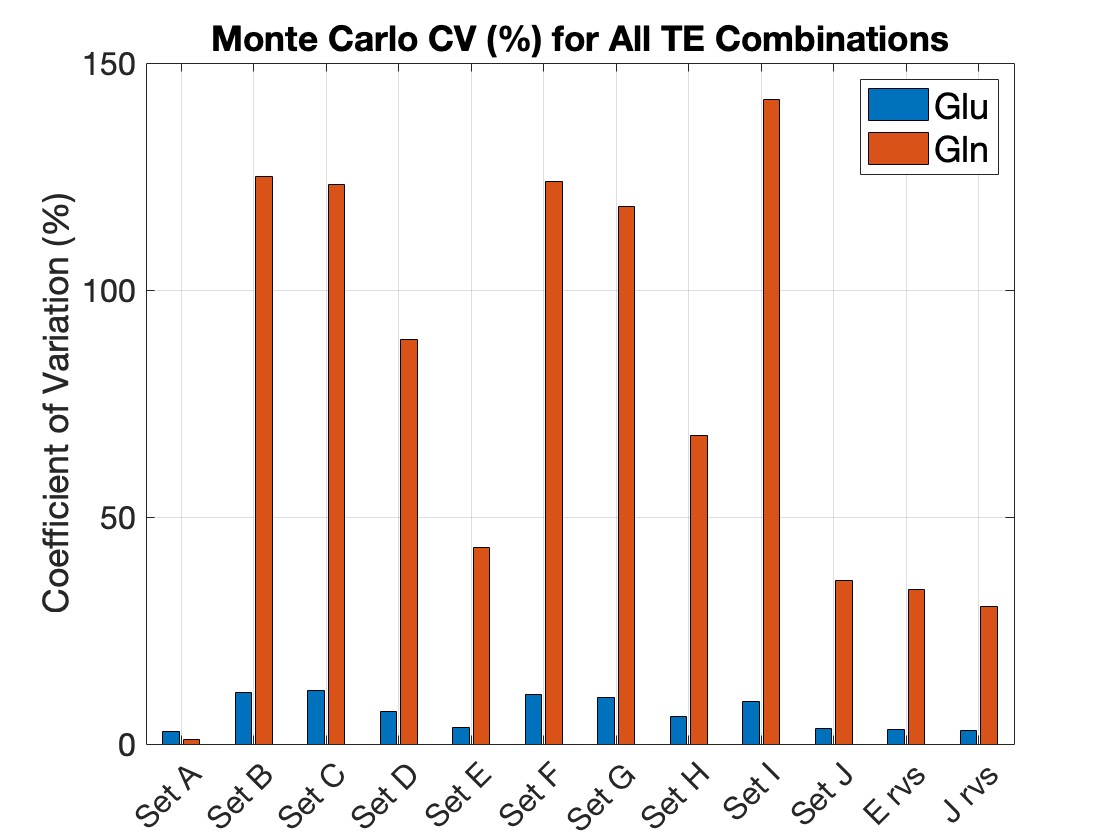
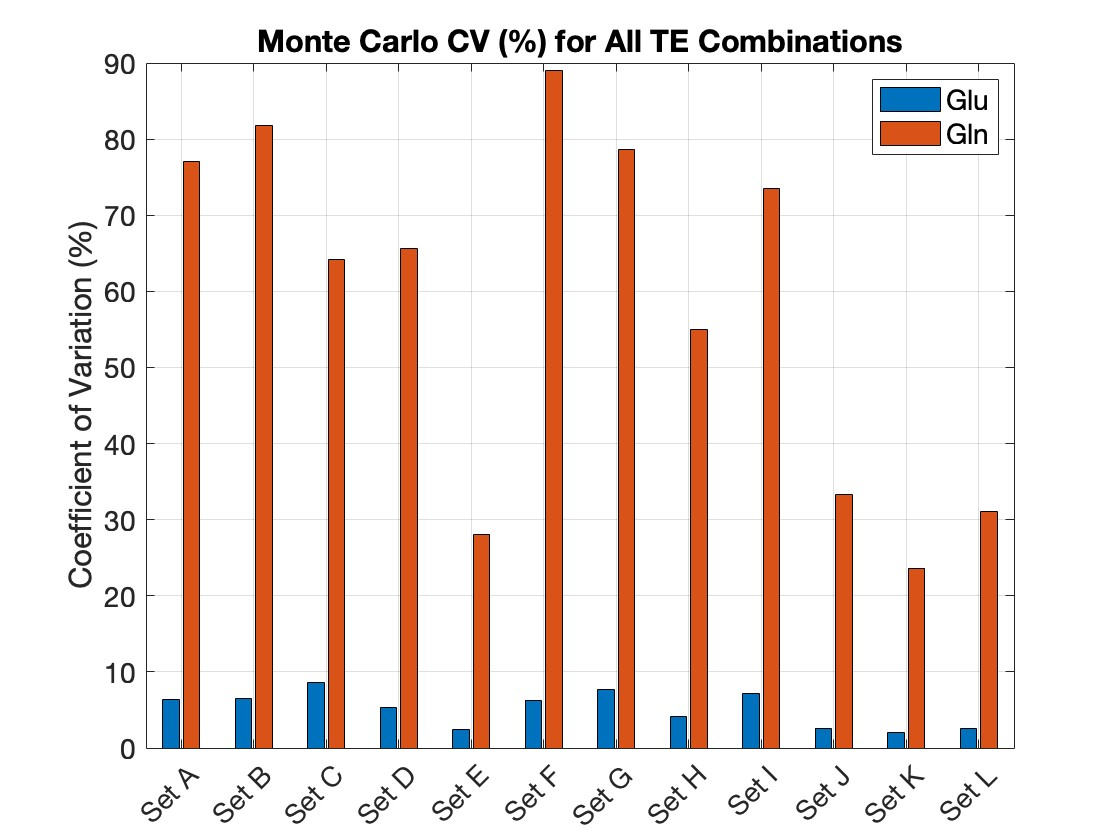
Updated Document

diff --git a/Aim 2 /Hybrid-TE/CRLB_estimation_05_Glu_Gln_KC.m b/Aim 2 /Hybrid-TE/CRLB_estimation_05_Glu_Gln_KC.m
@@ -1,6 +1,5 @@
 % CRLB_estimation_05_Glu_Gln.m setup code for concatenated spectral fit, in
 % 04, add monte carlo simulations
-
 % Chathu 2025 March 10th University of Calgary
 % Version 1
 %%%%%%%%%%%%%%%%%%%%%%%%%%%%%%%%%%%%%%%%%%%%%%%%%%%%%%%%%%%%%%%%%%%%%%%
@@ -56,11 +55,11 @@ SimPars.ncompounds = 2;
 
 
 numspec = 4;        % number of spectra to concatenate
- TE1_indx = [5,5,5,5];     % make sure number of indices in here match numspec
- TE2_indx = [1,1,1,1];     % make sure number of indices in here match numspec
+% TE1_indx = [5 7 9 11];     % make sure number of indices in here match numspec
+% TE2_indx = [17 19 13 15];     % make sure number of indices in here match numspec
 
-%TE1_indx = [20 20 20 20];     % make sure number of indices in here match numspec
-%TE2_indx = [20 20 20 20];
+TE1_indx = [5,5,5,5];     % make sure number of indices in here match numspec
+TE2_indx = [1,1,1,1];
 
 %SimPars.noise = SimPars.noise/sqrt(numspec);
 noise_sw = 0.0045;
@@ -228,38 +227,69 @@ disp(['Gln CRLB =' num2str(CRLBamp1D(2,1,1)) '%']);
 
 %% do lsqcurve fit based monte-carlo simulation to estimate coefficient of variance
 
+%% Monte Carlo simulation to estimate coefficient of variation (CV) using complex fit
+%% Monte Carlo simulation using real-valued residuals from complex FID
+
 num_reps = 100;
-x0 = [0.9, 0.9];     % Initial guess for parameters [amplitude1, amplitude2, offset]
+x0 = [0, 0.0];           % Initial guess: [Glu_amp, Gln_amp]
+lb = [0, 0];
+ub = [10, 10];
 
-MCarlo_results = zeros(num_reps, size(x0,2));
+MCarlo_results = zeros(num_reps, length(x0));
 
+% Noiseless FIDs
 Glu_FID_no_noise_conc = ifft(ifftshift(Glu_Specs_no_noise_concat));
 Gln_FID_no_noise_conc = ifft(ifftshift(Gln_Specs_no_noise_concat));
+
+% Stack real and imaginary parts into a real-valued residual vector
+stacked_model_func = @(x) [ ...
+    real(x(1)*Glu_FID_no_noise_conc + x(2)*Gln_FID_no_noise_conc), ...
+    imag(x(1)*Glu_FID_no_noise_conc + x(2)*Gln_FID_no_noise_conc) ...
+];
+
 for rep_indx = 1:num_reps
-    
-%    noisy_spec =  fftshift(fft(SimPars.Conc(1,1).*Glu_FID_no_noise_conc + SimPars.Conc(1,2).*Gln_FID_no_noise_conc + (SimPars.noise*randn(1, new_points) + 1i*SimPars.noise*randn(1, new_points))));
-   noisy_fid =  SimPars.Conc(1,1).*Glu_FID_no_noise_conc + SimPars.Conc(1,2).*Gln_FID_no_noise_conc + (SimPars.noise*randn(1, new_points) + 1i*SimPars.noise*randn(1, new_points));
-   
-   model_func = @(x, xdata) x(1) * real(Glu_FID_no_noise_conc) + x(2) * real(Gln_FID_no_noise_conc); % Amplitudes1*signal1 + Amplitude2*signal2
-   options = optimoptions('lsqcurvefit', 'Display', 'off');
-   x_opt = lsqcurvefit(model_func, x0, [], real(noisy_fid), [], [], options);
-   MCarlo_results(rep_indx,:) = x_opt; 
+    % Generate complex noisy signal
+    noisy_fid = SimPars.Conc(1,1)*Glu_FID_no_noise_conc + ...
+                SimPars.Conc(1,2)*Gln_FID_no_noise_conc + ...
+                SimPars.noise*(randn(1, new_points) + 1i*randn(1, new_points));
+
+    % Stack real and imaginary parts of the noisy FID
+    ydata = [real(noisy_fid), imag(noisy_fid)];
+
+    % Objective function returning residuals
+    obj_fun = @(x, xdata) stacked_model_func(x);
+
+    % Fit using lsqcurvefit
+    try
+        x_opt = lsqcurvefit(@(x, ~) obj_fun(x, []), x0, [], ydata, lb, ub, ...
+                            optimoptions('lsqcurvefit','Display','off'));
+    catch
+        warning(['Fit failed at iteration ' num2str(rep_indx)]);
+        x_opt = [NaN, NaN];
+    end
+
+    MCarlo_results(rep_indx,:) = x_opt;
+
+    % Optional: Track if unstable
+    if any(isnan(x_opt)) || any(x_opt < 0)
+        disp(['Unstable fit at rep ' num2str(rep_indx) ': ' num2str(x_opt)]);
+    end
 end
 
-Glu_mean = mean(MCarlo_results(:,1));
-Gln_mean = mean(MCarlo_results(:,2));
+% Clean results
+valid_idx = all(~isnan(MCarlo_results), 2);
+valid_results = MCarlo_results(valid_idx, :);
 
+Glu_mean = mean(valid_results(:,1));
+Gln_mean = mean(valid_results(:,2));
 
-Glu_CV = std(MCarlo_results(:,1))./Glu_mean*100;
+Glu_CV = std(valid_results(:,1))  * 100;
+Gln_CV = std(valid_results(:,2)) * 100;
 
-Gln_CV = std(MCarlo_results(:,2))./Gln_mean*100;
-
-
-disp('Monte Carlo simulation results:');
+disp('Monte Carlo simulation results (real-valued residuals from complex FID):');
 disp(['Glutamate concentrations = ' num2str(Glu_mean) ' +/- ' num2str(Glu_CV) '%']);
 disp(['Glutamine concentrations = ' num2str(Gln_mean) ' +/- ' num2str(Gln_CV) '%']);
 disp('-------------------------------------------');
-
 % ----- SNR CALCULATION -----
 % Define ppm axis for full concatenated spectrum
 ppm_axis = new_freq;
@@ -293,27 +323,28 @@ disp(['SNR (Glutamine) = ' num2str(SNR_Gln)]);
 disp('-------------------------------------------');
 
 % Labels for all evaluated TE sets
-sets = {'Set A', 'Set B', 'Set C', 'Set D', 'Set E', 'Set F', 'Set G', 'Set H', 'Set I', 'Set J', 'E rvs', 'J rvs'};
+sets = {'Set A', 'Set B', 'Set C', 'Set D', 'Set E', 'Set F', 'Set G', ...
+         'Set H', 'Set I', 'Set J', 'Set K', 'Set L'};
 
-% ----- CRLB Data -----
-crlb_glu  = [7.24, 7.46, 8.23, 5.06, 2.29, 6.98, 7.41, 4.3, 6.57, 2.24, 2.08, 2.03];  % Glu CRLB
-crlb_gln  = [28.23, 25.93, 26.76, 22.67, 8.18, 28.31, 27.86, 17.78, 25.51, 7.97, 7.32, 7.06];  % Gln CRLB
+% ----- Updated CRLB Data -----
+crlb_glu  = [7.24, 7.46, 8.23, 5.06, 2.29, 6.98, 7.41, 4.3, 6.57, 2.24, 2.08, 2.03];  % Glu CRLB (%)
+crlb_gln  = [28.23, 25.93, 26.76, 22.67, 8.18, 28.31, 27.86, 17.78, 25.51, 7.97, 7.32, 7.06];  % Gln CRLB (%)
 
-% ----- Monte Carlo CV Data -----
-cv_glu    = [2.83, 11.4, 11.75, 7.1, 3.68, 11, 10.35, 6.04, 9.29, 3.35, 3.23, 2.89];  % Glu CV%
-cv_gln    = [0.99, 124.93, 123.31, 89, 43.24, 123.8, 118.37, 67.89, 141.93, 36.11, 33.97, 30.32];  % Gln CV%
+% ----- Updated Monte Carlo CV Data -----
+cv_glu    = [6.36, 6.55, 8.67, 5.35, 2.43, 6.3, 7.75, 4.16, 7.13, 2.62, 2.01, 2.54];  % Glu CV (%)
+cv_gln    = [77.05, 81.82, 64.17, 65.62, 28.07, 88.97, 78.61, 55.03, 73.52, 33.29, 23.64, 31.13];  % Gln CV (%)
 
-% ----- SNR Data -----
-snr_glu   = [2.83, 3.12, 3.05, 2.23, 5.86, 2.87, 3.41, 6.14, 1.89, 5.52, 5.91, 9.211]; % Glu SNR
-snr_gln   = [0.97, 1.42, 1.93, 1.46, 2.84, 2.56, 1.77, 2.49, 1.26, 2.11, 2.76, 2.08];  % Gln SNR
+% ----- Updated SNR Data -----
+snr_glu   = [2.83, 3.12, 1.887, 3.44, 5.6, 2.14, 1.52, 4.49, 1.93, 6.37, 9.13, 6.17]; % Glu SNR
+snr_gln   = [1.2, 3.26, 1.49, 1.3, 1.94, 2.82, 1.62, 1.48, 2.32, 1.72, 4.7, 2.31];    % Gln SNR
 
 % ----- Plot CRLB -----
 figure;
 bar([crlb_glu; crlb_gln]', 'grouped');
 title('CRLB Comparison for All TE Combinations', 'FontSize', 16, 'FontWeight', 'bold');
 ylabel('CRLB (%)', 'FontSize', 16);
-set(gca, 'XTickLabel', sets, 'FontSize', 16,'XTickLabelRotation', 45);
-legend({'Glu', 'Gln'}, 'Location', 'northeast', 'FontSize', 18);
+set(gca, 'XTickLabel', sets, 'FontSize', 14, 'XTickLabelRotation', 45);
+legend({'Glu', 'Gln'}, 'Location', 'northeast', 'FontSize', 14);
 grid on;
 
 % ----- Plot Monte Carlo CV -----
@@ -321,8 +352,8 @@ figure;
 bar([cv_glu; cv_gln]', 'grouped');
 title('Monte Carlo CV (%) for All TE Combinations', 'FontSize', 16, 'FontWeight', 'bold');
 ylabel('Coefficient of Variation (%)', 'FontSize', 16);
-set(gca, 'XTickLabel', sets, 'FontSize', 16, 'XTickLabelRotation', 45);
-legend({'Glu', 'Gln'}, 'Location', 'northeast', 'FontSize', 18);
+set(gca, 'XTickLabel', sets, 'FontSize', 14, 'XTickLabelRotation', 45);
+legend({'Glu', 'Gln'}, 'Location', 'northeast', 'FontSize', 14);
 grid on;
 
 % ----- Plot SNR -----
@@ -330,6 +361,6 @@ figure;
 bar([snr_glu; snr_gln]', 'grouped');
 title('SNR Comparison for All TE Combinations', 'FontSize', 16, 'FontWeight', 'bold');
 ylabel('Signal-to-Noise Ratio', 'FontSize', 16);
-set(gca, 'XTickLabel', sets, 'FontSize', 16, 'XTickLabelRotation', 45);
-legend({'Glu', 'Gln'}, 'Location', 'northeast', 'FontSize', 18);
+set(gca, 'XTickLabel', sets, 'FontSize', 14, 'XTickLabelRotation', 45);
+legend({'Glu', 'Gln'}, 'Location', 'northeast', 'FontSize', 14);
 grid on;
